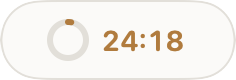
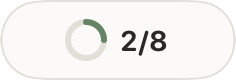
Release 0.2.0: document the rename and list views

Changed region(s): [[0.178, 0.225, 0.8008, 0.775]]

diff --git a/README.md b/README.md
@@ -1,12 +1,12 @@
 <p align="center">
-  <img src="docs/images/icon.png" width="112" alt="Floatask icon">
+  <img src="docs/images/icon.png" width="112" alt="Floatask logo">
 </p>
 
 <h1 align="center">Floatask</h1>
 
 <p align="center">
   A small, calm, always-on-top task panel for macOS. It saves everything as plain Markdown in your Obsidian vault.<br>
-  Checklists · focus timer · time tracking · history · private on-device AI assistant
+  Checklists · your own working order · focus timer · time tracking · history · private on-device AI assistant
 </p>
 
 <p align="center">
@@ -17,7 +17,7 @@
 </p>
 
 <p align="center">
-  <img src="docs/images/panel-light.png" width="300" alt="Floatask panel in light mode with a running focus timer">
+  <img src="docs/images/panel-light.png" width="300" alt="Floatask panel in light mode showing the Up next list">
   &nbsp;&nbsp;
   <img src="docs/images/panel-dark.png" width="300" alt="Floatask panel in dark mode">
 </p>
@@ -32,6 +32,9 @@ account and no cloud; your data lives in your own vault.
 
 - **Checklist with subtasks.** Add a task with Enter. Nest steps under it. A progress bar shows how
   much is done.
+- **Three ways to see your list.** **Up next** is the order you'll actually work in: drag tasks to
+  rearrange them. **Groups** shows tasks under their headings. **Priority** sorts them into High,
+  Medium, Low and No priority. Switch with the tabs under the progress bar.
 - **Focus timer.** Pomodoro-style, adjustable in 5-minute steps, linked to the task you're working on.
 - **Time tracking and history.** Focus time per task, today and this week, plus completed tasks by day.
 - **Obsidian-native.** Tasks are normal `- [ ]` checkboxes in `Task Manager/Tasks.md`. Tick one in
@@ -89,7 +92,8 @@ cd Floatask
 ```
 </details>
 
-**Update:** run the install command again. **Uninstall** (your tasks are kept):
+**Update:** run the install command again. (Floatask used to be called Taskflow. Installing it replaces
+the old app and keeps your vault, settings and saved API key.) **Uninstall** (your tasks are kept):
 
 ```bash
 curl -fsSL https://raw.githubusercontent.com/shihab-abir/Floatask/main/uninstall.sh | bash
@@ -105,7 +109,9 @@ curl -fsSL https://raw.githubusercontent.com/shihab-abir/Floatask/main/uninstall
 | Quit | click **×**, or `floatask quit` |
 | Move | drag the panel's title bar, or drag the pill anywhere |
 | Resize | drag the panel's bottom-right corner |
-| Edit a task | double-click it. Right-click for priority, due date, group, delete |
+| Switch list view | the **Up next · Groups · Priority** tabs (or `⌘1` `⌘2` `⌘3`) |
+| Set your working order | in **Up next**, drag a task up or down (subtasks come along) |
+| Edit a task | double-click it. Right-click for priority, due date, group, order, delete |
 | Track focus | pick a task under the timer, press **Start** |
 
 Closing the app never loses a running timer. It carries on when you reopen.
@@ -119,16 +125,18 @@ Closing the app never loses a running timer. It carries on when you reopen.
 | `Space` | Check / uncheck | `⌘K` | Assistant |
 | `↩` or `F` | Make it the focus task | `⌘Y` | History |
 | `E` | Edit task | `⌘M` | Collapse |
+| `⌥↑` `⌥↓` | Move task in Up next | `⌘1` `⌘2` `⌘3` | Up next / Groups / Priority |
 | `Esc` | Back / return to your previous app | | |
 
 ### Terminal
 
 ```text
 floatask                          open the panel
-floatask list                     show open tasks, numbered
+floatask list                     show open tasks, numbered (in the view chosen in the app)
 floatask add "Call printer" --due tomorrow --priority high
 floatask add "Hero section" --under 1        add a subtask to task 1
 floatask done 3                   complete task 3   (floatask undo 3 reopens it)
+floatask move 4 top               put task 4 first in Up next   (also up, down, bottom, or a number)
 floatask focus 1 25               25-minute focus session on task 1
 floatask pause | resume | stop
 floatask status | history
@@ -150,7 +158,7 @@ Task Manager/
 ```
 
 ```markdown
-- [ ] Finish landing page · due 2026-10-02 · high #design <!-- id:t_20260929_ab12 -->
+- [ ] Finish landing page · due 2026-10-02 · high #design <!-- id:t_20260929_ab12 order:1 -->
 	- [x] Hero section <!-- id:t_20260929_ef56 done:2026-09-29T11:00:00+06:00 -->
 ```
 

diff --git a/CHANGELOG.md b/CHANGELOG.md
@@ -6,6 +6,23 @@ All notable changes to Floatask are documented here. The format is based on
 
 ## [Unreleased]
 
+## [0.2.0] - 2026-11-04
+
+### Changed
+- The app is now called **Floatask**, with a new logo and app icon. The command is `floatask`.
+  Installing over Taskflow removes the old app and keeps your vault, settings and saved API key.
+
+### Added
+- Three ways to see the task list, switched with tabs under the progress bar (⌘1 / ⌘2 / ⌘3):
+  - **Up next** — your own working order. Drag tasks to rearrange them, or use ⌥↑ / ⌥↓ or the
+    right-click menu. Subtasks move with their parent. The order is saved in `Tasks.md` as an
+    `order:` value in each task's hidden comment.
+  - **Groups** — tasks under their `##` headings, as before.
+  - **Priority** — High, Medium, Low and No priority, each in your Up next order.
+- The "next" hint and the focus-task picker follow your Up next order.
+- `floatask move N top|up|down|bottom|POSITION`. `floatask list` numbers tasks the same way as the
+  view chosen in the app.
+
 ## [0.1.0] - 2026-11-04
 
 First public release.
@@ -36,5 +53,6 @@ First public release.
 - Light/dark/system theme, opacity setting, keyboard shortcuts and VoiceOver labels.
 - One-line installer and uninstaller. GitHub Actions CI and automated releases.
 
-[Unreleased]: https://github.com/shihab-abir/Floatask/compare/v0.1.0...HEAD
+[Unreleased]: https://github.com/shihab-abir/Floatask/compare/v0.2.0...HEAD
+[0.2.0]: https://github.com/shihab-abir/Floatask/compare/v0.1.0...v0.2.0
 [0.1.0]: https://github.com/shihab-abir/Floatask/releases/tag/v0.1.0
